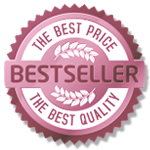
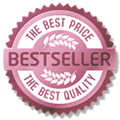
Update badges image size and style
git-svn-id: https://plugins.svn.wordpress.org/easy-media-gallery/trunk@812511 b8457f37-d9ea-0310-8a92-e5e31aec5664

diff --git a/includes/css/compare.css b/includes/css/compare.css
@@ -152,5 +152,5 @@ div.tsc_pt3_style1 div.column_3 li.header_row_2 { border-top: 1px solid #2972b0;
 div.tsc_pt3_style1 div.column_4 li.header_row_1 { border-top: 0; border-bottom: 1px solid #1a3e7b; background-color: #1a3e7b; }
 div.tsc_pt3_style1 div.column_4 li.header_row_2 { border-top: 1px solid #234e8e; border-bottom: 1px solid #234e8e; background-color: #234e8e; }
 
-.emg-badge-com { width: 100%; float:left; margin-top:15px; margin-bottom:20px; padding-bottom:10px; border-bottom: #CCC solid 1px;}
-.badge-com-item {display:inline-block; margin: 0 30px 0 30px;}
+.emg-badge-com { width: 100%; float:left; margin-top:15px; margin-bottom:20px; padding-bottom:10px;  padding-top:10px; border-top: #CCC dotted 1px; border-bottom: #CCC dotted 1px;}
+.badge-com-item {display:inline-block; margin: 0 40px 0 30px;}
